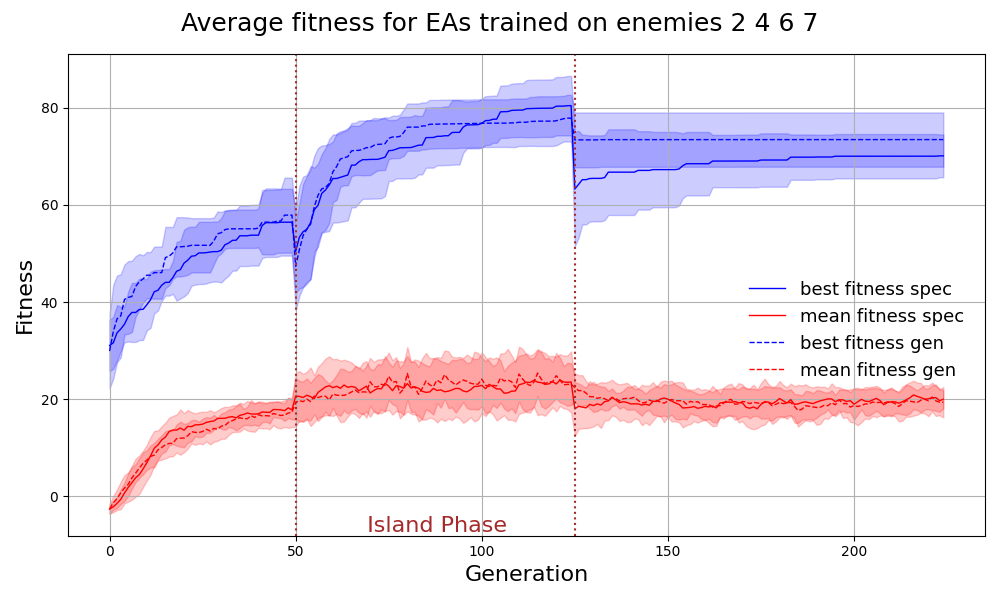
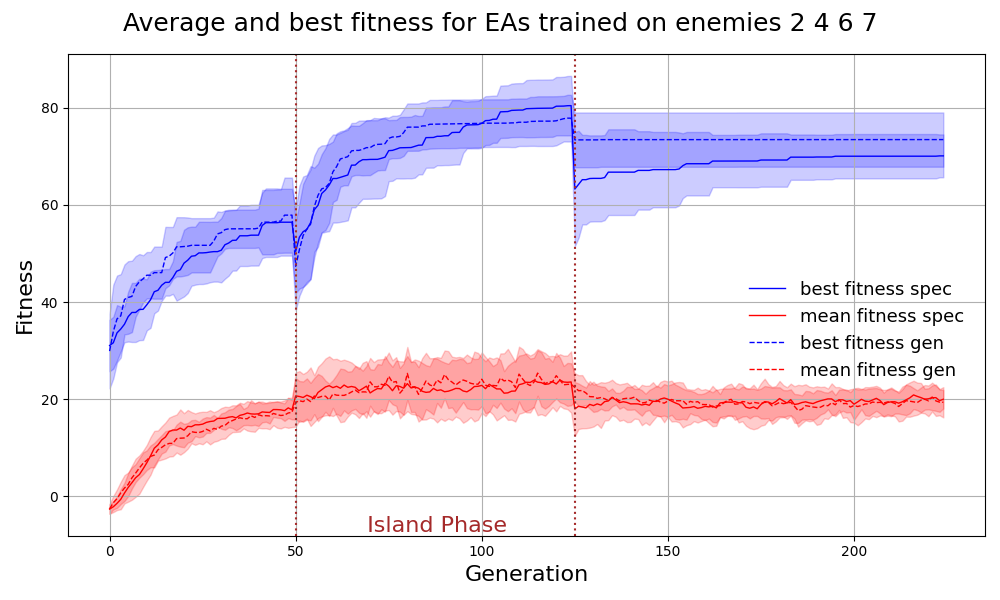
and best

Changed region(s): [[0.124, 0.0, 0.868, 0.06]]

diff --git a/ass2/plot_results.py b/ass2/plot_results.py
@@ -122,7 +122,7 @@ def plot_stats(stats_spec: dict, stats_gen: dict, enemy_group: list):
 
     ax1.set_xlabel('Generation', fontsize=16)
     ax1.set_ylabel('Fitness', fontsize=16)
-    fig.suptitle(f'Average fitness for EAs trained on enemies {" ".join(str(x) for x in enemy_group)}', fontsize=18)
+    fig.suptitle(f'Average and best fitness for EAs trained on enemies {" ".join(str(x) for x in enemy_group)}', fontsize=18)
 
     # fit
     ax1.plot(generations, avg_best_fit_fit, label='best fitness spec', color='blue', lw=1)
